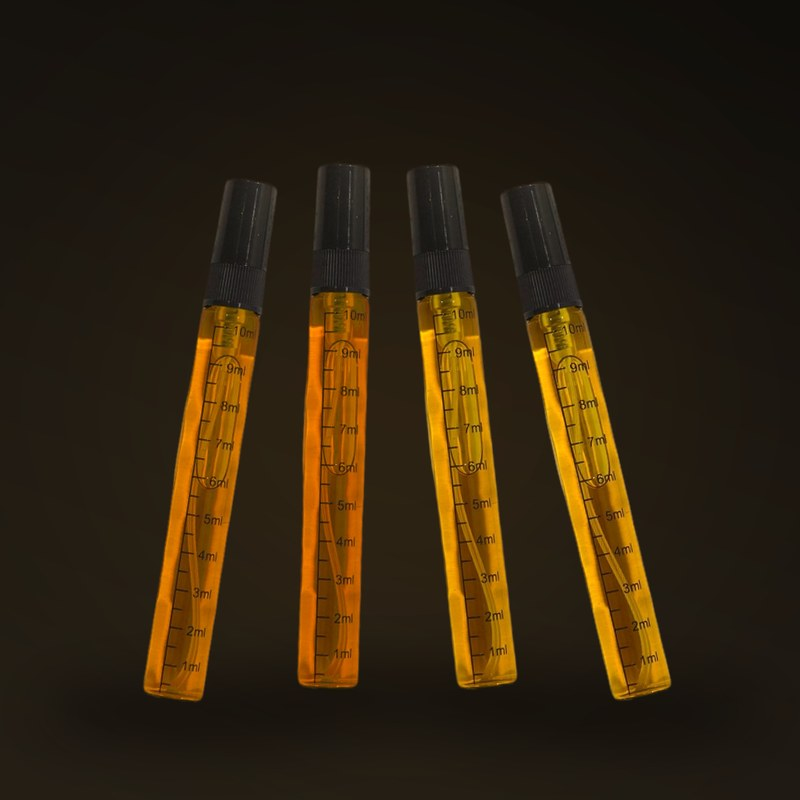
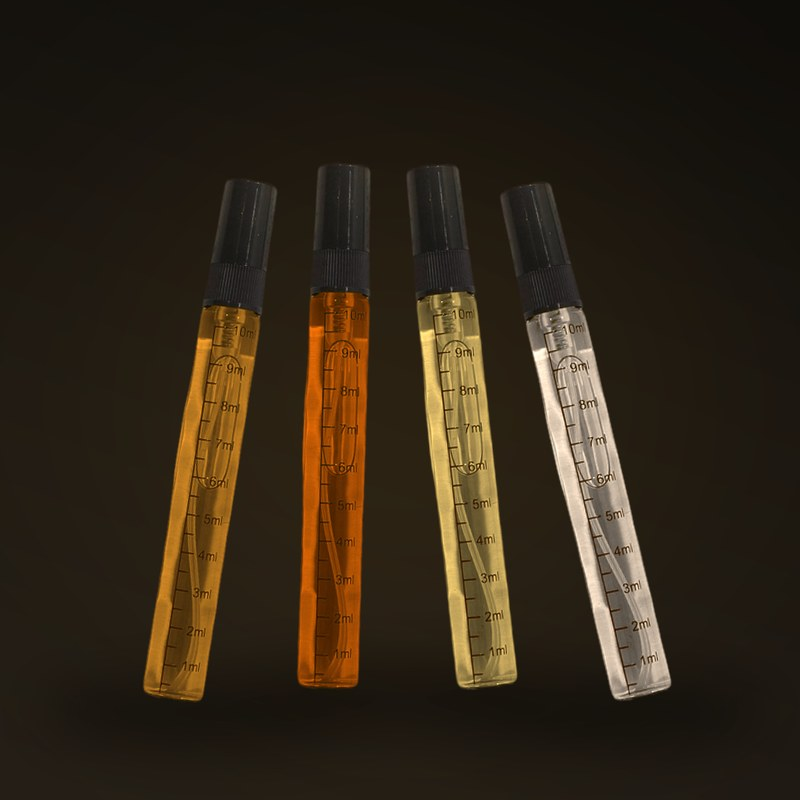
fix4

diff --git a/public/index.html b/public/index.html
@@ -322,8 +322,56 @@ section{padding:76px 0}
 }
 .card-meta{display:flex;align-items:center;justify-content:space-between;gap:8px;flex-wrap:wrap;margin-bottom:13px}
 .price{font-size:1.16rem;font-weight:900;color:var(--gold-soft);white-space:nowrap}
-.price s{font-size:.8rem;color:var(--muted);font-weight:500;margin-inline-start:7px}
+.price s{font-size:.82rem;color:#8b8172;font-weight:600;margin-inline-start:8px;text-decoration-color:#c0392b}
 .size{font-size:.78rem;color:var(--muted);border:1px solid var(--line);padding:2px 9px;border-radius:100px;white-space:nowrap;flex-shrink:0}
+
+/* شريط العرض والعدّاد */
+.sale-bar{
+  display:flex;align-items:center;justify-content:space-between;gap:18px;flex-wrap:wrap;
+  background:linear-gradient(120deg,rgba(201,162,39,.16),rgba(25,22,20,.9) 60%);
+  border:1px solid var(--line-2);border-radius:16px;
+  padding:15px 22px;margin-bottom:26px;position:relative;overflow:hidden;
+}
+.sale-bar::before{
+  content:"";position:absolute;inset:0;
+  background:linear-gradient(100deg,transparent 30%,rgba(255,244,204,.12) 50%,transparent 70%);
+  background-size:220% 100%;animation:shine 4.5s linear infinite;pointer-events:none;
+}
+.sale-left{display:flex;align-items:center;gap:12px;position:relative}
+.sale-badge{
+  direction:ltr;unicode-bidi:isolate;
+  background:linear-gradient(135deg,var(--gold-soft),var(--gold));color:#17120a;
+  font-weight:900;font-size:1rem;padding:6px 15px;border-radius:100px;white-space:nowrap;
+  box-shadow:0 0 20px rgba(201,162,39,.35);
+}
+.sale-txt{font-weight:700;font-size:.95rem}
+.clock{display:flex;align-items:center;gap:6px;position:relative;direction:ltr}
+.clock .unit{
+  min-width:52px;text-align:center;
+  background:rgba(11,10,9,.55);border:1px solid var(--line-2);border-radius:10px;padding:6px 4px;
+}
+.clock .unit b{display:block;font-size:1.18rem;font-weight:900;color:var(--gold-soft);line-height:1.15;
+  font-variant-numeric:tabular-nums}
+.clock .unit small{font-size:.62rem;color:var(--muted);letter-spacing:.4px}
+.clock .colon{color:var(--gold);font-weight:900;opacity:.5;padding-bottom:9px}
+@media(max-width:640px){
+  .sale-bar{flex-direction:column;align-items:stretch;gap:12px;padding:14px 16px;text-align:center}
+  .sale-left{justify-content:center}
+  .clock{justify-content:center}
+  .clock .unit{min-width:46px}
+  .sale-txt{font-size:.86rem}
+}
+
+/* ملصق نسبة الخصم */
+.badge.off{
+  direction:ltr;unicode-bidi:isolate;
+  inset-inline-start:auto;inset-inline-end:12px;
+  background:#c0392b;color:#fff;letter-spacing:.3px;
+  box-shadow:0 4px 16px rgba(192,57,43,.4);
+}
+
+/* تبديل صورة الحجم */
+.card-img .shot.swap{opacity:.15;transform:translateY(6px) scale(.97)}
 
 /* اختيار الحجم */
 .sizes{display:flex;gap:7px;margin-bottom:11px}
@@ -370,6 +418,9 @@ section{padding:76px 0}
   .size{font-size:.7rem;padding:1px 7px}
   .add{padding:9px;font-size:.85rem}
   .size-btn{font-size:.78rem;padding:6px 2px}
+  /* على الهاتف: ملصق الخصم أعلى، وملصق «الأكثر مبيعاً» أسفل حتى لا يتداخلا */
+  .card-img .badge:not(.out):not(.off){top:auto;bottom:10px;font-size:.64rem;padding:3px 9px}
+  .card-img .badge.off{font-size:.66rem;padding:3px 9px}
   .size-btn small{font-size:.66rem}
   .card-img{aspect-ratio:4/5}
 }
@@ -693,6 +744,22 @@ footer{background:rgba(11,10,9,.85);border-top:1px solid var(--line);padding:50p
       <p data-i18n="prodSub"></p>
       <div class="sec-line"></div>
     </div>
+    <div class="sale-bar reveal" id="saleBar" hidden>
+      <div class="sale-left">
+        <span class="sale-badge" id="saleBadge"></span>
+        <span class="sale-txt" data-i18n="saleTxt"></span>
+      </div>
+      <div class="clock" id="clock">
+        <div class="unit"><b id="cd">00</b><small data-i18n="cdD"></small></div>
+        <div class="colon">:</div>
+        <div class="unit"><b id="ch">00</b><small data-i18n="cdH"></small></div>
+        <div class="colon">:</div>
+        <div class="unit"><b id="cm">00</b><small data-i18n="cdM"></small></div>
+        <div class="colon">:</div>
+        <div class="unit"><b id="cs">00</b><small data-i18n="cdS"></small></div>
+      </div>
+    </div>
+
     <div class="grid" id="grid"></div>
   </div>
 </section>
@@ -901,7 +968,19 @@ const CONFIG = {
   //  الأجرة الافتراضية لكل المدن، ما عدا المدن التي لها fee خاص في قائمة المناطق
   //  Default fee for every city, except cities given their own fee in REGIONS
   // ==========================================================================
-  delivery: { default: 6000 },
+  delivery: { default: 5000 },
+
+  // ==========================================================================
+  //  عرض الخصم / DISCOUNT OFFER
+  //  until : تاريخ ووقت انتهاء العرض — غيّره لتمديد العرض
+  //          end date and time — change this to extend the offer
+  //  percent : الرقم الظاهر على الملصق فقط / the number shown on the badge only
+  //
+  //  إذا مرّ التاريخ يختفي العدّاد وحده، وتبقى الأسعار المخفّضة كما هي.
+  //  If the date passes the countdown hides itself and the discounted
+  //  prices stay exactly as they are — nothing on the page breaks.
+  // ==========================================================================
+  sale: { until: "2026-08-24T23:59:59", percent: 50 },
 
   // ==========================================================================
   //  فيديو المنتج (اختياري) / PRODUCT VIDEO (optional)
@@ -929,7 +1008,10 @@ const CONFIG = {
       desc:{ ar:"فخامة شرقية بعمق مخملي لا يُنسى.",
              en:"Oriental opulence with an unforgettable velvet depth." },
       tag:{ ar:"الأكثر مبيعاً", en:"Best seller" },
-      sizes:[ {ml:30, price:15000}, {ml:50, price:25000} ] },
+      sizes:[
+        {ml:30, price:15000, was:30000, img:"images/coromandel-30.jpg"},
+        {ml:50, price:25000, was:50000, img:"images/coromandel.jpg"}
+      ] },
 
     { id:2, inStock:true, image:"images/ombre-nomade.jpg",
       name:{ ar:"إل في أومبر نوماد", en:"LV Ombre Nomade" },
@@ -938,7 +1020,10 @@ const CONFIG = {
       desc:{ ar:"قوة داكنة بحضور ملكي جريء.",
              en:"Dark strength with a bold, regal presence." },
       tag:{ ar:"", en:"" },
-      sizes:[ {ml:30, price:15000}, {ml:50, price:25000} ] },
+      sizes:[
+        {ml:30, price:15000, was:30000, img:"images/ombre-nomade-30.jpg"},
+        {ml:50, price:25000, was:50000, img:"images/ombre-nomade.jpg"}
+      ] },
 
     { id:3, inStock:true, image:"images/bois-dargent.jpg",
       name:{ ar:"ديور بوا دارجان", en:"Dior Bois d'Argent" },
@@ -947,7 +1032,10 @@ const CONFIG = {
       desc:{ ar:"أناقة ناعمة بطابع بودري فاخر.",
              en:"Soft elegance with a luxurious powdery character." },
       tag:{ ar:"", en:"" },
-      sizes:[ {ml:30, price:15000}, {ml:50, price:25000} ] },
+      sizes:[
+        {ml:30, price:15000, was:30000, img:"images/bois-dargent-30.jpg"},
+        {ml:50, price:25000, was:50000, img:"images/bois-dargent.jpg"}
+      ] },
 
     { id:4, inStock:true, image:"images/baccarat-540.jpg",
       name:{ ar:"بكارات روج 540", en:"Baccarat Rouge 540" },
@@ -956,7 +1044,10 @@ const CONFIG = {
       desc:{ ar:"رائحة متوهّجة… حلوة، شفافة، وآسرة للحواس.",
              en:"A luminous scent — sweet, transparent, and captivating." },
       tag:{ ar:"", en:"" },
-      sizes:[ {ml:30, price:15000}, {ml:50, price:25000} ] },
+      sizes:[
+        {ml:30, price:15000, was:30000, img:"images/baccarat-540-30.jpg"},
+        {ml:50, price:25000, was:50000, img:"images/baccarat-540.jpg"}
+      ] },
 
     // طقم التجربة — أربع قناني ١٠ مل، واحدة من كل عطر
     // Discovery set — four 10 ml bottles, one of each perfume
@@ -964,11 +1055,11 @@ const CONFIG = {
       name:{ ar:"طقم التجربة — ٤ عطور", en:"Discovery Set — 4 Perfumes" },
       notes:{ ar:"كورومندل · أومبر نوماد · بوا دارجان · بكارات ٥٤٠",
               en:"Coromandel · Ombre Nomade · Bois d'Argent · Baccarat 540" },
-      desc:{ ar:"جرّب الأربعة، ثم اختر عطرك.",
-             en:"Try all four, then choose your signature." },
+      desc:{ ar:"٤٠ مل بالمجموع — جرّب الأربعة، ثم اختر عطرك.",
+             en:"40 ml in total — try all four, then choose your signature." },
       tag:{ ar:"وفّر أكثر", en:"Best value" },
       // size واحد فقط، لذلك لا تظهر أزرار الأحجام. label يستبدل نص «١٠ مل»
-      sizes:[ {ml:10, price:18000, label:{ ar:"٤ × ١٠ مل", en:"4 × 10 ml" }} ] }
+      sizes:[ {ml:10, price:20000, label:{ ar:"٤ × ١٠ مل", en:"4 × 10 ml" }} ] }
   ]
 };
 /* ==========================================================================
@@ -1099,6 +1190,7 @@ const T = {
     pt3:"نعتمد نسباً مرتفعة من الزيوت الطبيعية النقية، لنضمن لك فوحاناً غنياً وشذىً يدوم طويلاً.",
     pt4:"وبأسعار مناسبة في متناول الجميع.",
     vidTitle:"من داخل فلوران",
+    saleTxt:"ينتهي العرض بعد", cdD:"يوم", cdH:"ساعة", cdM:"دقيقة", cdS:"ثانية",
     loyBadge:"عرض دائم",
     loyTitle:"اطلب ٣ مرات — واختر هديتك",
     loyBody:"مع طلبك الثالث من فلوران، نهديك قنينة ١٠ مل من أي عطر تختاره. بدون شروط وبدون بطاقات.",
@@ -1153,6 +1245,7 @@ const T = {
     pt3:"High concentrations of pure natural oils give a rich projection and a scent that lasts all day.",
     pt4:"At prices that stay within everyone's reach.",
     vidTitle:"Inside Florane",
+    saleTxt:"Offer ends in", cdD:"DAYS", cdH:"HRS", cdM:"MIN", cdS:"SEC",
     loyBadge:"ALWAYS ON",
     loyTitle:"Order 3 times — pick your gift",
     loyBody:"On your third Florane order we send you a free 10 ml bottle of any perfume you choose. No conditions, no cards to carry.",
@@ -1306,21 +1399,32 @@ function deliveryFee(){
 /* ---------- المنتجات ---------- */
 // الحجم المختار حالياً لكل عطر / currently selected size per perfume
 const chosen = {};
-CONFIG.products.forEach(p => chosen[p.id] = p.sizes[0].ml);
+// يبدأ دائماً على الحجم الأكبر / always starts on the largest size
+CONFIG.products.forEach(p => chosen[p.id] = p.sizes.reduce((a,b) => b.ml > a.ml ? b : a).ml);
 
 const sizeOf = (p, ml) => p.sizes.find(s => s.ml === ml) || p.sizes[0];
 // نص الحجم: label إن وُجد، وإلا «30 مل»
 const szText = sz => sz.label ? L(sz.label) : `${sz.ml} ${t("ml")}`;
 const szOf = (id, ml) => szText(sizeOf(product(id), ml));
+const shotOf = (p, ml) => sizeOf(p, ml).img || p.image;      // صورة الحجم المختار
+const saleLive = () => {
+  const u = CONFIG.sale && CONFIG.sale.until ? new Date(CONFIG.sale.until) : null;
+  return u && !isNaN(u) && u.getTime() > Date.now();
+};
 const priceOf = p => sizeOf(p, chosen[p.id]).price;
+function priceHTML(p){
+  const sz = sizeOf(p, chosen[p.id]);
+  return fmt(sz.price) + (sz.was ? `<s>${sz.was.toLocaleString("en-US")}</s>` : "");
+}
 
 function renderGrid(){
   $("grid").innerHTML = CONFIG.products.map((p,i) => `
     <article class="card reveal${i%4===1?" d1":i%4===2?" d2":i%4===3?" d3":""}" data-card="${p.id}">
       <div class="card-img">
-        ${p.image ? `<img class="shot" src="${p.image}" alt="${L(p.name)}" loading="lazy">` : BOTTLE}
+        ${p.image ? `<img class="shot" data-shot="${p.id}" src="${shotOf(p, chosen[p.id])}" alt="${L(p.name)}" loading="lazy">` : BOTTLE}
         ${!p.inStock ? `<span class="badge out">${t("outBadge")}</span>`
                      : L(p.tag) ? `<span class="badge">${L(p.tag)}</span>` : ""}
+        ${p.inStock && sizeOf(p, chosen[p.id]).was ? `<span class="badge off" data-off="${p.id}">-${CONFIG.sale.percent}%</span>` : ""}
       </div>
       <div class="card-body">
         <h3>${L(p.name)}</h3>
@@ -1338,7 +1442,7 @@ function renderGrid(){
         </div>` : `<div class="one-size">${szText(p.sizes[0])}</div>`}
 
         <div class="card-meta">
-          <div class="price" data-price="${p.id}">${fmt(priceOf(p))}</div>
+          <div class="price" data-price="${p.id}">${priceHTML(p)}</div>
         </div>
 
         <button class="add" data-id="${p.id}" ${p.inStock?"":"disabled"}>
@@ -1352,11 +1456,24 @@ function renderGrid(){
     b.onclick = () => {
       const id = +b.dataset.size;
       chosen[id] = +b.dataset.ml;
+      const prod = product(id);
       const card = document.querySelector(`[data-card="${id}"]`);
       card.querySelectorAll("[data-size]").forEach(x =>
         x.classList.toggle("on", +x.dataset.ml === chosen[id]));
-      card.querySelector(`[data-price="${id}"]`).textContent =
-        fmt(priceOf(CONFIG.products.find(p => p.id === id)));
+      card.querySelector(`[data-price="${id}"]`).innerHTML = priceHTML(prod);
+
+      // بدّل الصورة — قنينة مختلفة لكل حجم
+      const shot = card.querySelector(`[data-shot="${id}"]`);
+      const next = shotOf(prod, chosen[id]);
+      if (shot && !shot.src.endsWith(next)){
+        shot.classList.add("swap");
+        const pre = new Image();
+        pre.onload = () => { shot.src = next; shot.classList.remove("swap"); };
+        pre.onerror = () => shot.classList.remove("swap");
+        pre.src = next;
+      }
+      const off = card.querySelector(`[data-off="${id}"]`);
+      if (off) off.style.display = sizeOf(prod, chosen[id]).was ? "" : "none";
     };
   });
 
@@ -1621,6 +1738,32 @@ setTimeout(() => {
   });
 }, 3000);
 window.addEventListener("load", () => setTimeout(observeReveals, 200));
+
+/* ---------- عدّاد العرض ---------- */
+let saleTimer;
+function tickSale(){
+  const bar = $("saleBar");
+  const end = CONFIG.sale && CONFIG.sale.until ? new Date(CONFIG.sale.until).getTime() : NaN;
+  if (isNaN(end)) { bar.hidden = true; return; }
+
+  let left = end - Date.now();
+  if (left <= 0){
+    // انتهى الوقت — نخفي العدّاد فقط، والأسعار المخفّضة تبقى كما هي
+    bar.hidden = true;
+    clearInterval(saleTimer);
+    return;
+  }
+  bar.hidden = false;
+  const sec = Math.floor(left/1000);
+  const pad = n => String(n).padStart(2,"0");
+  $("cd").textContent = pad(Math.floor(sec/86400));
+  $("ch").textContent = pad(Math.floor(sec/3600)%24);
+  $("cm").textContent = pad(Math.floor(sec/60)%60);
+  $("cs").textContent = pad(sec%60);
+  $("saleBadge").textContent = "-" + CONFIG.sale.percent + "%";
+}
+tickSale();
+saleTimer = setInterval(tickSale, 1000);
 
 /* ---------- الفيديو ---------- */
 if (CONFIG.video){

diff --git a/README.md b/README.md
@@ -13,9 +13,10 @@ Orders arrive in your Telegram; WhatsApp stays as a second contact option.
 | | |
 |---|---|
 | Perfumes | Coromandel, Ombre Nomade, Bois d'Argent, Baccarat Rouge 540 |
-| Also | Discovery Set — 4 × 10 ml, 18,000 IQD |
-| Sizes | 30 ml — 15,000 IQD · 50 ml — 25,000 IQD |
-| Delivery | 6,000 IQD everywhere · **3,000 IQD to Mosul** |
+| Also | Discovery Set — 4 × 10 ml (40 ml total), 20,000 IQD |
+| Sizes | 30 ml — 15,000 (was 30,000) · 50 ml — 25,000 (was 50,000) |
+| Offer | 50% off, countdown ends 24 Aug — extend in one line |
+| Delivery | 5,000 IQD everywhere · **3,000 IQD to Mosul** |
 | Coverage | 18 governorates, 143 cities and districts |
 | WhatsApp | 9647508274568 |
 | Order alerts | Telegram, to two people |
@@ -66,13 +67,48 @@ unique `id`**. Two perfumes sharing an id will misbehave in the cart.
 **To mark something sold out** — `inStock:false`. The card greys out and the button
 disables. Better than deleting it, because customers see you carry it.
 
+### Sizes, photos and the discount
+
+Each size can carry its own photo and its own "before" price:
+
+```js
+sizes:[
+  {ml:30, price:15000, was:30000, img:"images/coromandel-30.jpg"},
+  {ml:50, price:25000, was:50000, img:"images/coromandel.jpg"}
+]
+```
+
+- **`img`** — the card photo swaps when the customer switches size, because the 30 ml
+  (wooden cap) and 50 ml (crystal cap) really are different bottles. Leave it out and
+  the product's main `image` is used for that size.
+- **`was`** — shows a struck-through old price and puts a red `-50%` badge on the card.
+  Remove `was` and both disappear for that size.
+- **The largest size is selected by default** on every card. That's automatic — it
+  reads the sizes list and picks the biggest.
+
+### The countdown
+
+```js
+sale: { until: "2026-08-24T23:59:59", percent: 50 },
+```
+
+**To extend the offer**, change that date. That's the only edit.
+
+When the date passes, the countdown bar **hides itself and the discounted prices stay
+exactly as they are.** Nothing shows a broken timer and nothing jumps to 50,000 — so
+forgetting to extend for a day or two costs you nothing.
+
+One honest note, said once: a countdown that resets forever is the most widely
+recognised fake-urgency trick, and repeat customers do clock it. It works best if the
+prices genuinely move at least sometimes. Your call — the mechanism does whatever you set.
+
 ### A product with one size only
 
 The Discovery Set has a single size, so the size buttons don't appear — a plain chip
 shows instead. The `label` replaces the automatic "10 ml" text:
 
 ```js
-sizes:[ {ml:10, price:18000, label:{ ar:"٤ × ١٠ مل", en:"4 × 10 ml" }} ]
+sizes:[ {ml:10, price:20000, label:{ ar:"٤ × ١٠ مل", en:"4 × 10 ml" }} ]
 ```
 
 Use `label` on any size whose real name isn't just a number of millilitres.
@@ -126,7 +162,7 @@ const GIFT_EVERY = 3;
 The default sits in the settings block:
 
 ```js
-delivery: { default: 6000 },
+delivery: { default: 5000 },
 ```
 
 That applies to every city **except** ones given their own fee in the `REGIONS` list
@@ -200,6 +236,11 @@ image:"images/coromandel.jpg"
   data. Shrink free at [squoosh.app](https://squoosh.app)
 - **Filenames are case-sensitive** — `Oud.JPG` ≠ `oud.jpg`. Lowercase, no spaces
 
+The four 10 ml vials in the Discovery Set image are the same photo recoloured four
+times, each matched to the real liquid colour sampled from that perfume's own bottle —
+golden amber, deep orange, pale gold, near clear. If a perfume's colour changes, resample
+and regenerate rather than eyeballing it.
+
 All five products have their photos. Each bottle was cut out of its original photo and
 placed on the same gradient the cards use, which is why they sit flush with the design
 instead of looking like snapshots pasted on.
@@ -258,7 +299,7 @@ Telegram setup is in **TELEGRAM-SETUP.md**.
 - [ ] Switch a perfume between 30 and 50 ml — price should change
 - [ ] Add both sizes of the same perfume — they should be two separate lines
 - [ ] Pick نينوى → الموصل — delivery should read 3,000
-- [ ] Pick any other city — should read 6,000
+- [ ] Pick any other city — should read 5,000
 - [ ] Try sending with the form empty — should refuse and highlight fields
 - [ ] Send a real test order — check Telegram
 - [ ] Tap **EN** and read the English side
